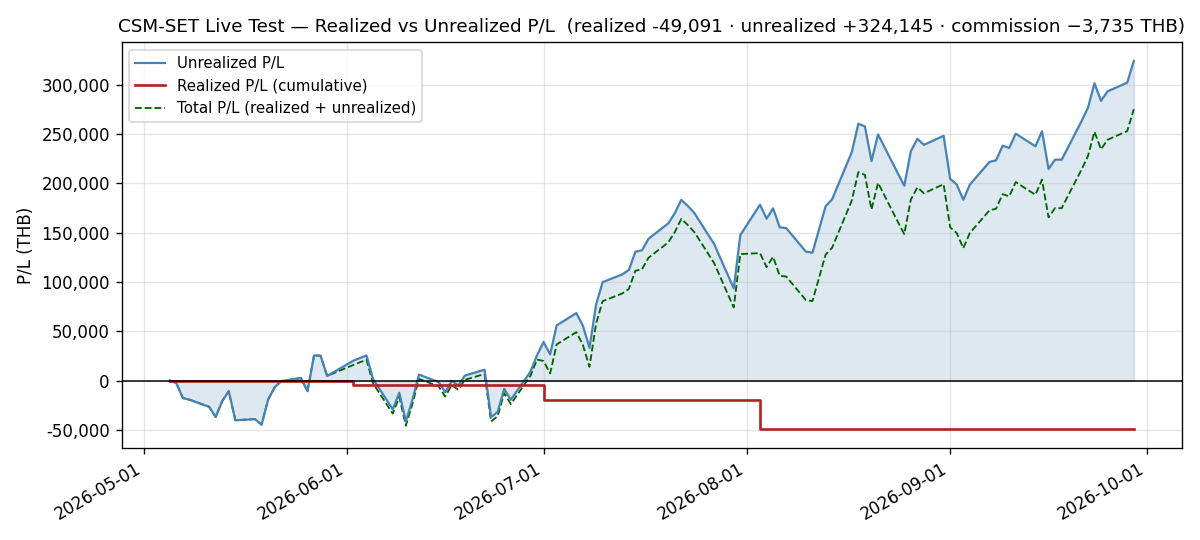
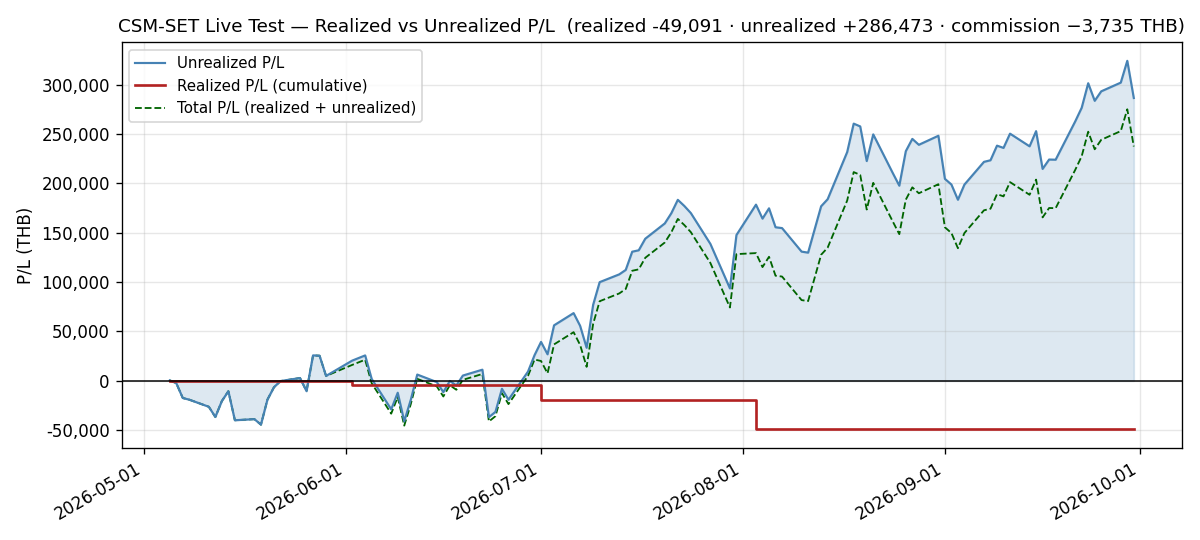
docs(live-test): add daily log for 2026-09-30 — the evaluation day: NAV -2.70%, ETRON 149.91 over the 35% cap on a falling NAV, KCE now the largest position
NAV 1,355,771.70 THB, -37,672.00 (-2.7035%) with no trades - the largest decline since
2026-09-16 and the lowest close since 2026-09-24, 37,672.00 below the 2026-09-29 high and
25,946.00 above the 2026-08-18 peak. Total Return on NAV +21.05%. Breadth 1 up / 8 down /
1 flat against a SET down 2.2135%, its worst session since 2026-03-23. GUNKUL (-4.67%) and
FORTH (-5.81%) had their worst sessions of the holding period; MGC closed at a holding-period
low of 6.45. KCE, the only riser, closed at a third consecutive high (76.25) and is the largest
position for the first time in the holding period. Still pre-registration history: seen, not
scored.

ETRON crossed the 35% sector cap: 35.0111%, 149.91 THB over, although its market value fell
5,980.00 - the cap fell 13,185.20 with NAV. It is ETRON's first crossing and the third of the
holding period (ENERG 2026-08-13, 2026-09-09). The cap binds at construction, which is today's
evaluation. The floor breach deepened for a thirteenth session to 8,448.59 under; MGC's fall
widened it 2,300.00 and the falling floor narrowed it 1,883.60. MGC now needs +14.99% to clear.

Today is the rebalance evaluation; docs/live-test/monthly/2026-09.md does not exist at the time
of this log. Recorded, not acted on in this unit of work. SET:THCOM's history is restored (600
bars; the 563 that overlap the banked raw store agree exactly), so the two-bar episode lasted one
[…]

diff --git a/docs/live-test/daily/2026-09-30.md b/docs/live-test/daily/2026-09-30.md
@@ -1,0 +1,173 @@
+# Daily Log — 2026-09-30 (Wednesday)
+
+**As of:** 2026-09-30, Asia/Bangkok
+**Phase:** C — Extended Observation
+**Day:** 103 / 60 trading days remaining in 2026
+**Status:** 🔴 **PRE-REGISTRATION HISTORY — SEEN, NOT SCORED.** The operator's 2026-09-11 forward-only decision stands and **no scoring criteria have been pre-registered since**, so every figure below carries that label. 🔴 **NAV closes at 1,355,771.70 THB, down −37,672.00 (−2.7035%)** with no trades — **the largest decline since 2026-09-16**, **37,672.00 below the 2026-09-29 high** and still **25,946.00 above the 2026-08-18 peak**; Total Return on NAV is **+21.05%**. Breadth is **1 up, 8 down, 1 flat** against a SET that fell **−2.2135%**, its worst session since 2026-03-23. 🔴 **ETRON crossed the 35% sector cap, closing at 35.0111%, 149.91 THB over — on a falling NAV**: the sleeve's market value fell while the cap fell further. 🔴 **MGC's floor breach deepened for a thirteenth session to 8,448.59 THB under**, with MGC at a holding-period low of 6.45, and **MGC now needs +14.99% to clear**. ⚠ **KCE, the only riser, closed at a third consecutive high and is the book's largest position for the first time in the holding period.** 🔴 **Today is the rebalance evaluation, and the plan it produces is not yet written at the time of this log**; the rotation executes at the **2026-10-01 ATO**.
+
+---
+
+## Execution Summary
+
+**No trades today.** The September rebalance was executed at the **2026-09-01 ATO** as a **0-out / 0-in** rotation, so `configs/live_portfolio.yaml` is unchanged and remains valid. Realized P/L for the session is **0.00 THB** and no commission was paid. **Neither end of the band creates a trade, and neither does the sector cap**: both are applied when the book is constructed, and there is no high-water-mark rule.
+
+🔴 **Today is that construction.** **2026-09-30 is the last trading day of September**, when the October rotation is drafted; it executes at the **2026-10-01 ATO**. **`docs/live-test/monthly/2026-09.md` does not exist at the time of this log.** Recorded here, not acted on in this unit of work (Risk Note 14).
+
+---
+
+## Portfolio Snapshot
+
+> 🔴 **Every figure in this section is PRE-REGISTRATION HISTORY — NOT SCORED.** It is produced from the **reconstructed series** (`csm.adapters.hooks._reconstruct_live_equity`, which reprices `configs/live_portfolio.yaml` against `data/processed/prices_latest.parquet`) and reconciled against **`db_gateway.daily_performance`**. Where a number below is quoted from a stored series, the series is named.
+
+`Avg Cost` is the commission-inclusive per-share basis carried from `configs/live_portfolio.yaml` (4-decimal precision); `Cost Basis = shares × Avg Cost`, and `U.PL % = MV / Cost Basis − 1`. Per-symbol values reproduce the broker statement exactly.
+
+| # | Symbol | Shares | Avg Cost | Last Price | Market Value (THB) | Cost Basis (THB) | U.PL % |
+|---|--------|-------:|---------:|-----------:|--------------------:|-----------------:|-------:|
+| 1 | KCE | 2,600 | 39.0655 | 76.25 | 198,250.00 | 101,570.30 | +95.19% |
+| 2 | GUNKUL | 30,800 | 2.9246 | 5.10 | 157,080.00 | 90,077.68 | +74.38% |
+| 3 | INSET | 42,000 | 3.0848 | 4.60 | 193,200.00 | 129,561.60 | +49.12% |
+| 4 | HANA | 3,000 | 35.8070 | 51.00 | 153,000.00 | 107,421.00 | +42.43% |
+| 5 | IRPC | 56,600 | 2.3037 | 2.84 | 160,744.00 | 130,389.42 | +23.28% |
+| 6 | EASTW | 24,000 | 4.2672 | 5.20 | 124,800.00 | 102,412.80 | +21.86% |
+| 7 | EPG | 17,300 | 5.9099 | 6.10 | 105,530.00 | 102,241.27 | +3.22% |
+| 8 | SMT | 20,400 | 5.8097 | 6.05 | 123,420.00 | 118,517.88 | +4.14% |
+| 9 | FORTH | 5,300 | 16.1270 | 14.60 | 77,380.00 | 85,473.10 | −9.47% |
+| 10 | MGC | 9,200 | 10.7180 | 6.45 | 59,340.00 | 98,605.60 | −39.82% |
+
+### Portfolio summary
+
+| Metric | Value |
+|--------|-------|
+| Total Cost Basis | 1,066,270.65 THB |
+| Total Market Value | 1,352,744.00 THB |
+| Unrealized P/L | +286,473.35 THB (+26.87%) |
+| Realized P/L (today) | **0.00 THB** |
+| Realized P/L (cumulative, since inception) | **−49,091.38 THB** |
+| Commission paid (cumulative) | **−3,735.16 THB** |
+
+### Account summary
+
+| Metric | Value |
+|--------|-------|
+| Remaining Cash | 3,027.70 THB |
+| Total NAV | 1,355,771.70 THB |
+| Total Return on NAV | +21.05% |
+
+> **Cost-basis note:** Total Cost Basis is unchanged at **1,066,270.65 THB** and the reconciliation delta against Σ per-symbol (`shares × avg_cost`, 4-dp) is **0.00 THB** for a forty-first consecutive session.
+>
+> ⚠ **Above/below cost: 8 up / 2 down, unchanged**, with only **FORTH** and **MGC** below. **KCE's +95.19% is again the highest U.PL any holding has reached in the holding period**, past its own +92.63% of 2026-09-29, and **MGC's −39.82% is its lowest of the holding period**. **FORTH's −9.47%** is its lowest U.PL since 2026-09-24, **INSET's +49.12%** its lowest since 2026-09-17, and **GUNKUL's +74.38%** and **IRPC's +23.28%** their lowest since 2026-09-18.
+>
+> 🔴 **Dispersion WIDENED to 135.01pp, the widest of the holding period** (KCE +95.19% to MGC −39.82%), from 130.12pp — a **+4.89pp** step, from both ends: the leader KCE gained **2.56pp** of cost and the laggard MGC lost **2.33pp**.
+>
+> **Total P/L check:** realized + unrealized = −49,091.38 + 286,473.35 = **+237,381.97 THB**, down from +275,053.97 by exactly the −37,672.00 session move. **It stands 37,672.00 below the +275,053.97 of 2026-09-29 and 25,946.00 above the +211,435.97 of 2026-08-18** — the same margins as NAV's, as they must be while realized P/L is constant.
+
+---
+
+## Day-over-Day Change (vs Tuesday September 29)
+
+| Symbol | Sep 29 Close | Sep 30 Close | Change | Change % | MV Contribution (THB) |
+|--------|-------------:|-------------:|-------:|---------:|----------------------:|
+| KCE | 75.25 | 76.25 | +1.00 | +1.33% | +2,600.00 |
+| EASTW | 5.20 | 5.20 | 0.00 | 0.00% | 0.00 |
+| EPG | 6.20 | 6.10 | -0.10 | -1.61% | -1,730.00 |
+| MGC | 6.70 | 6.45 | -0.25 | -3.73% | -2,300.00 |
+| SMT | 6.25 | 6.05 | -0.20 | -3.20% | -4,080.00 |
+| HANA | 52.50 | 51.00 | -1.50 | -2.86% | -4,500.00 |
+| FORTH | 15.50 | 14.60 | -0.90 | -5.81% | -4,770.00 |
+| IRPC | 2.96 | 2.84 | -0.12 | -4.05% | -6,792.00 |
+| GUNKUL | 5.35 | 5.10 | -0.25 | -4.67% | -7,700.00 |
+| INSET | 4.80 | 4.60 | -0.20 | -4.17% | -8,400.00 |
+| **Total** | | | | **-2.71%** | **-37,672.00** |
+
+**Breadth: 1 up, 8 down, 1 flat.**
+
+> The `Change %` on the Total row is the **market-value** change (−37,672.00 / 1,390,416.00 = −2.7094%), not the NAV change (−37,672.00 / 1,393,443.70 = −2.7035%). The two differ only because cash sits in the NAV denominator and not in the market-value one; with cash constant at 3,027.70 the absolute change is identical and only the denominator moves.
+
+**A broad decline with one riser.** **Eight names fell.** **INSET −4.17% (−8,400.00)**, **GUNKUL −4.67% (−7,700.00)** and **IRPC −4.05% (−6,792.00)** took the most; **GUNKUL's −4.67% and FORTH's −5.81% (−4,770.00) are each name's worst session of the holding period**, INSET's is its worst since 2026-09-01 and IRPC's its worst since 2026-09-16. **MGC −3.73% (−2,300.00)** closed at **6.45, a holding-period low**, and HANA −2.86%, SMT −3.20% and EPG −1.61% added the rest. **KCE +1.33% (+2,600.00)** was **the only riser** and closed at **76.25, a holding-period high for a third consecutive session**; **EASTW** closed unchanged. **The book fell −2.7035% against a SET that fell −2.2135%**, a **−0.4900pp** difference that is a same-session arithmetic result, not a performance comparison (Market Context).
+
+---
+
+## Market Context
+
+| Indicator | Value | Source |
+|-----------|-------|--------|
+| SET Index | 1,559.01 | tvkit (TradingView) |
+| SET Open / High / Low | 1,598.64 / 1,599.87 / 1,556.75 | tvkit |
+| SET 200-day SMA | 1,484.1103 | tvkit (TradingView) |
+| Regime Estimate | BULL | SET +5.05% above SMA200 |
+
+> ⚠ **This is context, NOT a benchmark comparison, and it must not be read as one.** `SET:SET` is a **price index**; the strategy series above is priced on **dividend-adjusted** bars (since `e04a292`, 2026-08-09). The two are not on the same basis, the difference is one-sided in the strategy's favour, and it is not small — measured 2026-09-11 over 2024-03-19 → 2026-09-10, the dividend adjustment is worth **+12.09 percentage points** on this universe, roughly **+4.8%/yr**. The engine's own benchmark loader is also given **no date bounds**, so it compares **600 index points — from 2024-04-05 in today's panel, a start that moves forward one session per session** — against a strategy series that starts at the 2026-08-03 `entry_date`. **No alpha, excess return or outperformance figure is computed anywhere in this log.**
+
+---
+
+## Regime State
+
+- **Detected regime:** BULL — SET (1,559.01) is above SMA200 (1,484.1103) by +5.0468%
+- **SMA200 position:** 1,484.1103 — SET closing at 1,559.01
+- **3-month return:** +1.08% (window-sensitive — see Notes)
+- **No regime-driven action.** The regime filter is evaluated at the month-end rebalance, not intra-month; that rebalance evaluation is **2026-09-30**, and at today's close the estimate is **BULL**.
+
+**The SET path from the 2026-09-08 high reads 1,621.89 → 1,617.89 → 1,615.07 → 1,604.52 → 1,591.07 → 1,578.66 → 1,562.73 → 1,583.34 → 1,584.15 → 1,598.03 → 1,604.44 → 1,610.70 → 1,602.58 → 1,607.63 → 1,602.37 → 1,594.30 → 1,559.01** — a **−35.29 point, −2.2135%** session, **the index's worst since 2026-03-23**, a third consecutive decline, to **its lowest close since 2026-06-26**, leaving it **−3.8770%** below the 2026-09-08 high. Today's range was **43.12 points**, the widest since 2026-03-09. **Cushion fell 7.5269% → 5.0468%, a −2.4801pp step**, as SMA200 rose again to **1,484.1103** (+1.4122); it is the lowest cushion since 2026-01-19. **A BULL→BEAR crossing needs the index 74.90 points lower — a further −4.80% at today's SMA200** — and nothing in the system acts on compression short of that crossing.
+
+The 3-month figure fell from +2.29% to +1.08%: the session's −2.2135%, partly offset by a start bar that moved from 2026-06-25 (1,558.55) to 2026-06-26 (1,542.34).
+
+---
+
+## Sector Concentration
+
+Groupings are the SET-official classification re-based at the 2026-08-03 rebalance and are unchanged today; percentages are directly comparable to the prior session for every sleeve.
+
+| Sector | Market Value (THB) | % of NAV | Limit | Status |
+|--------|--------------------:|---------:|-------|--------|
+| Energy & Utilities (ENERG) | 442,624 | 32.6474% | 35% | OK — 31,896.10 THB of headroom |
+| Electronic Components (ETRON) | 474,670 | 35.0111% | 35% | 🔴 **BREACHED — 149.91 THB over the cap** |
+| ICT | 270,580 | 19.9576% | 35% | OK |
+| Construction Materials (CONMAT) | 105,530 | 7.7838% | 35% | OK |
+| Automotive (AUTO) | 59,340 | 4.3768% | 5% floor | 🔴 **BREACHED — 8,448.59 THB under the floor, thirteenth session** |
+
+🔴 **ETRON CROSSED THE 35% SECTOR CAP ON A FALLING NAV.** **ETRON closed at 35.0111% of NAV, 149.91 THB over the cap** of 474,520.10 — **up +0.5174pp although its market value fell 5,980.00** (HANA −2.86% and SMT −3.20% against KCE +1.33%), **because the cap fell 13,185.20 with NAV**. It is **ETRON's first crossing and the third of the holding period**, after ENERG on 2026-08-13 (35.0028%) and 2026-09-09 (35.2791%). As recorded on 2026-09-09, the cap is applied at rebalance construction (`csm.portfolio.sector_regime_constraint_engine`) and no path evaluates it intra-month; **today's evaluation is that construction**.
+
+🔴 **THE FLOOR BREACH DEEPENED FOR A THIRTEENTH SESSION, WITH ITS TWO HALVES PULLING OPPOSITE WAYS.** **AUTO closed 4.3768%, 8,448.59 THB below the 5% floor** of 67,788.59 — past 2026-09-29's 8,032.19 THB and 4.4236%, so it is **again the deepest of the breach in both THB and weight, and the AUTO sleeve's lowest weight of the holding period**. **MGC's −3.73% took 2,300.00 off the sleeve, but the floor fell 1,883.60 with NAV, so the gap widened only 416.40 THB.** **MGC now clears at 7.4167, +14.99%** (static level **7.3683**) — **the furthest clearing distance of the breach**, past 2026-09-29's +13.72%. [[TK-0279]]
+
+**ETRON's lead over ENERG widened to 2.3637pp (32,046.00 THB)**, its widest of the holding period, as ENERG fell **−0.1574pp to 32.6474%** on GUNKUL −4.67% and IRPC −4.05%, with EASTW unchanged. The two large sleeves together hold **67.6584% of NAV**, **their highest combined weight of the holding period**. **ICT fell −0.4056pp to 19.9576%** on FORTH −5.81% and INSET −4.17%, **CONMAT rose +0.0863pp to 7.7838%** as EPG's −1.61% was smaller than NAV's fall, and **AUTO fell −0.0468pp to 4.3768%** on MGC.
+
+**At the ceiling end, KCE became the largest position.** KCE closed 76.25 (+1.33%) at **14.6227% of NAV**, **its highest weight of the holding period**, **5,115.76 THB inside the 15% ceiling** of 203,365.76; it goes over at **78.5648, +3.04%** (static level **78.2176**). It passed INSET by **5,050.00 THB** — **the first session of the holding period in which KCE is the largest position**. INSET closed 4.60 (−4.17%) at **14.2502% of NAV**, **10,165.76 THB inside the ceiling**, a margin **2,749.20 THB wider**: INSET's market value fell 8,400.00 and the ceiling fell 5,650.80 with NAV. It goes back over at **4.8848, +6.19%** (static level **4.8420**).
+
+---
+
+## Risk Notes
+
+1. 🔴 **PRE-REGISTRATION HISTORY — SEEN, NOT SCORED (operator decision, 2026-09-11, unchanged).** The track record restarts forward-only, and **scoring criteria are still pending an operator pre-registration**: checked for this log across the strategy repo, the ticket store and the umbrella, and **none has been recorded**. The rebalance evaluation changes nothing about this label; the record continues under it.
+2. 🔴 **NAV fell −37,672.00 (−2.7035%) to 1,355,771.70, the largest decline since 2026-09-16** and the lowest close since 2026-09-24. It stands **37,672.00 below the 2026-09-29 high** and **25,946.00 above the 2026-08-18 peak**; Total Return on NAV is **+21.05%**. **Nothing in the book acts on a decline of this size** (Risk Note 9).
+3. ⚠ **The position band is breached at one end**: KCE is inside at **14.6227%** (5,115.76 under the ceiling) and INSET at **14.2502%** (10,165.76 under); MGC is at **4.3768%** (8,448.59 under the floor). **No action is recommended and none has been sized.** Both ends reach **today's** evaluation. 🔑 **Today the falling NAV lowered both limits**: the ceiling fell 5,650.80 toward the two largest names, and the floor fell 1,883.60 toward MGC. [[TK-0279]]
+4. 🔴 **AUTO's floor breach deepened in its thirteenth session to 8,448.59 THB under at 4.3768%** — follow-up (b): MGC did not reach 7.6190, and fell to 6.45. MGC's own fall widened the gap by 2,300.00 and the floor's fall with NAV narrowed it by 1,883.60, a net 416.40. It clears at **7.4167 (+14.99%)**, the furthest distance of the breach. ⚠ MGC is still outside the 5–15% position band at its low end. [[TK-0279]]
+5. 🔴 **MGC fell −3.73% to 6.45, a holding-period low**, and its U.PL moved from −37.49% to **−39.82%**, its lowest of the holding period. It remains the weakest holding and the whole of the breached AUTO sleeve; **its exit candidacy is answered by rule at the evaluation, which is today**.
+6. ⚠ **INSET is inside the band at 14.2502%** — follow-up (a) answered: it fell to 4.60, below 5.0077. **Its margin widened to 10,165.76 THB**, and it goes back over at **4.8848 (+6.19%)**. **It is no longer the book's largest position**: KCE passed it by 5,050.00 THB. Its U.PL is **+49.12%**. Recorded as a distance, not a forecast.
+7. 🔴 **SECTOR CAP — ETRON closed at 35.0111%, 149.91 THB over the 35% limit** — follow-up (d): **the 7,055.30 THB of headroom was lost without the sleeve rising**; its market value fell 5,980.00 and the cap fell 13,185.20 with NAV. It is ETRON's first crossing and the third of the holding period, after ENERG on 2026-08-13 and 2026-09-09. **No action is recommended and none has been sized**: the cap binds at construction, and today's evaluation is that construction.
+8. 🟢 **`equity_curve` and `daily_performance` agree for a sixteenth consecutive session**, both **1,355,771.70** — follow-up (c) answered — and the panel's vendor stamp held at **09:55 Bangkok** for an eleventh session. The mechanism is unchanged and the agreement is still **not a fix**: `hooks.py` rewrites the whole `[entry_date, today]` window on every refresh, so the next vendor back-adjustment re-opens the divergence behind the append-only gateway rows. [[TK-0297]]
+9. 🟢 **Circuit-breaker buffer 21.52% of NAV, −2.12pp on the session.** The 5% breaker trips at **1,064,000 THB**; NAV sits **+291,771.70 above it**. **NAV is 2.70% off peak** — 1,355,771.70 against the 2026-09-29 peak of 1,393,443.70 is **−37,672.00, or −2.7035%**. The rolling `circuit_breaker.trigger_threshold` is −10% over 60 days; −2.70% is clear.
+10. 🟢 **`SET:THCOM`'s history is restored** — follow-up (d). Today's refresh fetched **600 THCOM bars**, against two on 2026-09-29, and the panel's THCOM column now runs from **2024-04-05 to 2026-09-30**; **its 563 bars that overlap the banked raw store agree with it exactly**. The two-bar episode lasted one session. The refresh needed no universe retry: attempt 1 recovered all 201 universe symbols (`requested=201 recovered=201 still_failing=0`) in **131.23s**, and **no symbol failed** (`failures=0`, `held_symbols_failed=0`).
+11. 🟢 **The uncredited dividend total HELD at 8,927.00 THB** — KCE 1,560.00, INSET 2,100.00, MGC 2,208.00, FORTH 795.00, IRPC 2,264.00. It stands at **3.76%** of the +237,381.97 total P/L, **up from 3.25%** purely because the denominator shrank, and **0.66% of NAV**. There is still no dividend-accrual path anywhere in the book. Recorded, deliberately not corrected. It reaches **today's** evaluation unresolved.
+12. **INFRA (carried) — the container publishes `:8100` on all interfaces while private-mode auth is disabled.** `CSM_API_KEY` is absent from the container environment and `CSM_PUBLIC_MODE=false`. **Risk tier: low-moderate and LAN-scoped.** Two low-risk options, operator's call: bind to `127.0.0.1:8100:8000`, or set `CSM_API_KEY`. A recreate is required for the first and has not occurred. **Thirty-fifth consecutive log.**
+13. ⚠ **DOC — the `csm-set-daily-log` skill's `daily_return` guidance remains stale.** Its Step 3 still calls the field *"an open defect, not yet fixed in code"*; **it was fixed 2026-09-02**. Today `daily_return` reads **−2.7035%** and agrees with this log's headline exactly, because no bar was restated. The instruction to compute the change independently remains correct and is followed. **Seventeenth log to carry this.**
+14. 🔴 **Four open decisions reach the evaluation today, and the plan that would answer them is not yet written**: the drift question at both ends of the position band (Risk Notes 3, 4, 6), fix-notional-not-shares on the entrants, restate-vs-cutover for price history (Risk Note 8), and dividend accrual (Risk Note 11). **The ETRON cap breach (Risk Note 7) reaches the same construction.** 🔑 **Since the floor breach began on 2026-09-14, the floor has not cleared once in thirteen sessions, and the ceiling has been crossed on two separate single sessions inside that window** — every one of them recorded and none of them acted on.
+
+---
+
+## Notes
+
+- **Scheduled refresh completed via APScheduler with zero failures.** `"Scheduled daily_refresh completed"` at **2026-09-30T11:02:13Z** (18:02 BKK) — the 18:00 cron firing, not a manual `POST /api/v1/scheduler/run/daily_refresh`. Receipt: `symbols_fetched=211, failures=0, duration_seconds=131.23, held_symbols_fetched=10, held_symbols_failed=0, retry_attempts_used=0, index_fetched=true`, corroborated by `results/.tmp/last_refresh.json`. The next run is scheduled for **2026-10-01 18:00 +07** (Risk Note 10).
+- **The price panel and the prior log agree on all ten names**, so **nothing was restated** (Risk Note 8).
+- **The panel's row count fell 928 → 927**, and **every row still carries a 09:55 Bangkok stamp**, with no duplicated session date. Its column count is unchanged at **211** (210 symbols + `SET:SET`); the `SET:THCOM` column now holds 600 values (Risk Note 10).
+- **Row-integrity checks pass.** `db_csm_set.equity_curve` holds **exactly one row per trading day at `00:00:00+00`** — 102 rows, 102 dates, none off midnight — and today's row equals `daily_performance.total_value`.
+- **The container has run since the 2026-09-23 01:47:23Z host reboot**, with no restart since; its creation date (2026-09-01) is unchanged, so its environment and the `:8100` binding are those of the same container instance.
+- **`configs/live_portfolio.yaml` is unchanged** since the 2026-08-03 rewrite — forty-one sessions.
+- **The P/L identity holds and its residual is unchanged.** `realized_cum + unrealized − (NAV − starting_nav)` = −49,091.38 + 286,473.35 − 235,771.70 = **1,610.27 THB**, the same constant as every session since the rebasing.
+- **Every figure was verified rather than asserted.** Σ position market value equals Total Market Value exactly (1,352,744.00); **Total NAV (1,355,771.70) equals `db_gateway.daily_performance.total_value` to the satang**; Σ (shares × price change) equals the market-value change (−37,672.00) exactly; the sector table sums to Total Market Value exactly; Σ per-symbol cost basis matches Total Cost Basis with a **0.00** delta; the position count is 10. All money arithmetic used `Decimal` with explicit half-up rounding (KCE **14.6227%**, **5,115.76 THB** inside a 203,365.76 ceiling, going over at **78.5648**; INSET **14.2502%**, **10,165.76 THB** inside, going back over at **4.8848**; AUTO **4.3768%**, **8,448.59 THB** under a 67,788.59 floor, the net 416.40 widening being MGC's 2,300.00 less the floor's 1,883.60 fall, clearing at **7.4167**; ETRON **35.0111%**, **149.91 THB** over a 474,520.10 cap; the ETRON−ENERG lead **2.3637pp** and **32,046.00 THB**).
+- **Realized P/L and commission ledger — both unchanged, no trades today.** Realized cumulative **−49,091.38 THB** (2026-06-02 −4,351.87 · 2026-07-01 −14,964.06 · 2026-08-03 −29,775.45). Commission cumulative **−3,735.16 THB**.
+- **Capital events to date, unchanged.** `starting_nav` 1,120,000 after 1,000,000 → 1,100,000 (2026-06-04, +100,000) → 1,120,000 (2026-08-03, +20,000). Both injections are inside the pre-registration window and neither is performance.
+- **Every superlative was computed, and each names its window.** **The largest decline since 2026-09-16** and **the lowest close since 2026-09-24** come from the full `db_gateway.daily_performance` series (103 rows). **The 135.01pp dispersion, KCE's high close, U.PL and weight, KCE as largest position, GUNKUL's and FORTH's worst sessions, MGC's low close and U.PL, ETRON's first crossing and widest lead, the highest combined weight, the AUTO sleeve's lowest weight, the breach's deepest THB gap and furthest clearing distance** and each "since" date are **of the 2026-08-03 holding period**, checked against all 41 prior published logs and, for prices, against the panel from 2026-08-03. **KCE set a new high and MGC a new low; no other held name set either.** The index figures are measured over bars fetched back to 2024-09-09.
+- **3-month return figure is window-sensitive.** +1.08% is measured over the trailing 66 bars from today's close (start bar 2026-06-26, 1,542.34) and moves materially with the start bar (Regime State). The regime estimate does not use it.
+- **Follow-ups for the next session (Thursday 2026-10-01 18:00 +07 — the rotation day).** (a) **Whether the October rotation executes at the 2026-10-01 ATO, and what it changes in `configs/live_portfolio.yaml`** — any change supersedes (b) to (d); (b) **the band at the 2026-09-30 close — KCE goes over the ceiling at 78.5648 (+3.04%), MGC clears the floor at 7.4167 (+14.99%)**; (c) whether `equity_curve` and `daily_performance` agree for a seventeenth session; (d) **ETRON against the 35% cap, 149.91 THB over**. **All four follow-ups from 2026-09-29 are closed above** — (a) Risk Note 6, (b) Risk Note 4, (c) Risk Note 8, (d) Risk Notes 7 and 10.
+- **Calendar.** 2026-09-30 was a trading session; the banked SET holiday calendar (`results/.tmp/set_holidays.json`, read at `captured_at 2026-09-30T08:48:09Z`) carries no closure from 2026-09-30 through 2026-10-01, and the next 2026 closure is **2026-10-13**. ⚠ **Correction to the 2026-09-29 log**, which said the container's holiday poll *re-captures* the file every 30 minutes: the job's interval is 30 minutes, but this stamp has not advanced since 08:48:09Z, so a run does not always re-capture. No trading hours are stated anywhere in this log.
+- Data fetched via tvkit (TradingView, free tier) — all 10 held-symbol prices from the 18:00 BKK scheduled-cron refresh; SET Index context anchored explicitly to the 2026-09-30 bar. ⚠ **The vendor back-adjusts a symbol's entire history on an ex-dividend date**, so any prior-session price quoted here is the vendor's *current* view of that session and not necessarily what was published at the time.

diff --git a/docs/live-test/graphs/README.md b/docs/live-test/graphs/README.md
@@ -260,6 +260,20 @@ do not re-derive `k` from the new NAV.
 
 ## History
 
+**`pnl.csv` extended through 2026-09-30** on 2026-09-30, appending the **2026-09-30** row — one row,
+continuing the same-session practice for a **thirty-fourth** consecutive session. `realized_cum` and
+`commission_cum` are unchanged (no trade since the 2026-08-03 rotation; the 2026-09-01 rebalance
+traded nothing), so the whole movement is the unrealized leg (+324,145.35 → **+286,473.35**, a
+**−37,672.00** session — the largest decline since 2026-09-16, checked against
+`db_gateway.daily_performance` over the whole series). `total_pl` falls to **+237,381.97**, 37,672.00
+below the +275,053.97 maximum of 2026-09-29 and its lowest since 2026-09-24. The reconciliation
+residual holds at **1,610.27**. **`pnl_realized_unrealized.png` was regenerated in the same
+session**, so the two artifacts end together at **102 points**; the four PNGs were checksummed before
+and after and the three NAV charts are byte-identical (`drawdown` eea580c3…, `equity_curve`
+25b0baf9…, `monthly_returns` aebd96bd…), with only the P/L chart's hash moving (b4ec31f5… →
+**1d5a7992…**). Every point in the series remains **pre-registration history — seen, not scored**
+under the operator decision of 2026-09-11; no scoring criteria have been pre-registered since.
+
 **`pnl.csv` extended through 2026-09-29** on 2026-09-29, appending the **2026-09-29** row — one row,
 continuing the same-session practice for a **thirty-third** consecutive session. `realized_cum` and
 `commission_cum` are unchanged (no trade since the 2026-08-03 rotation; the 2026-09-01 rebalance
